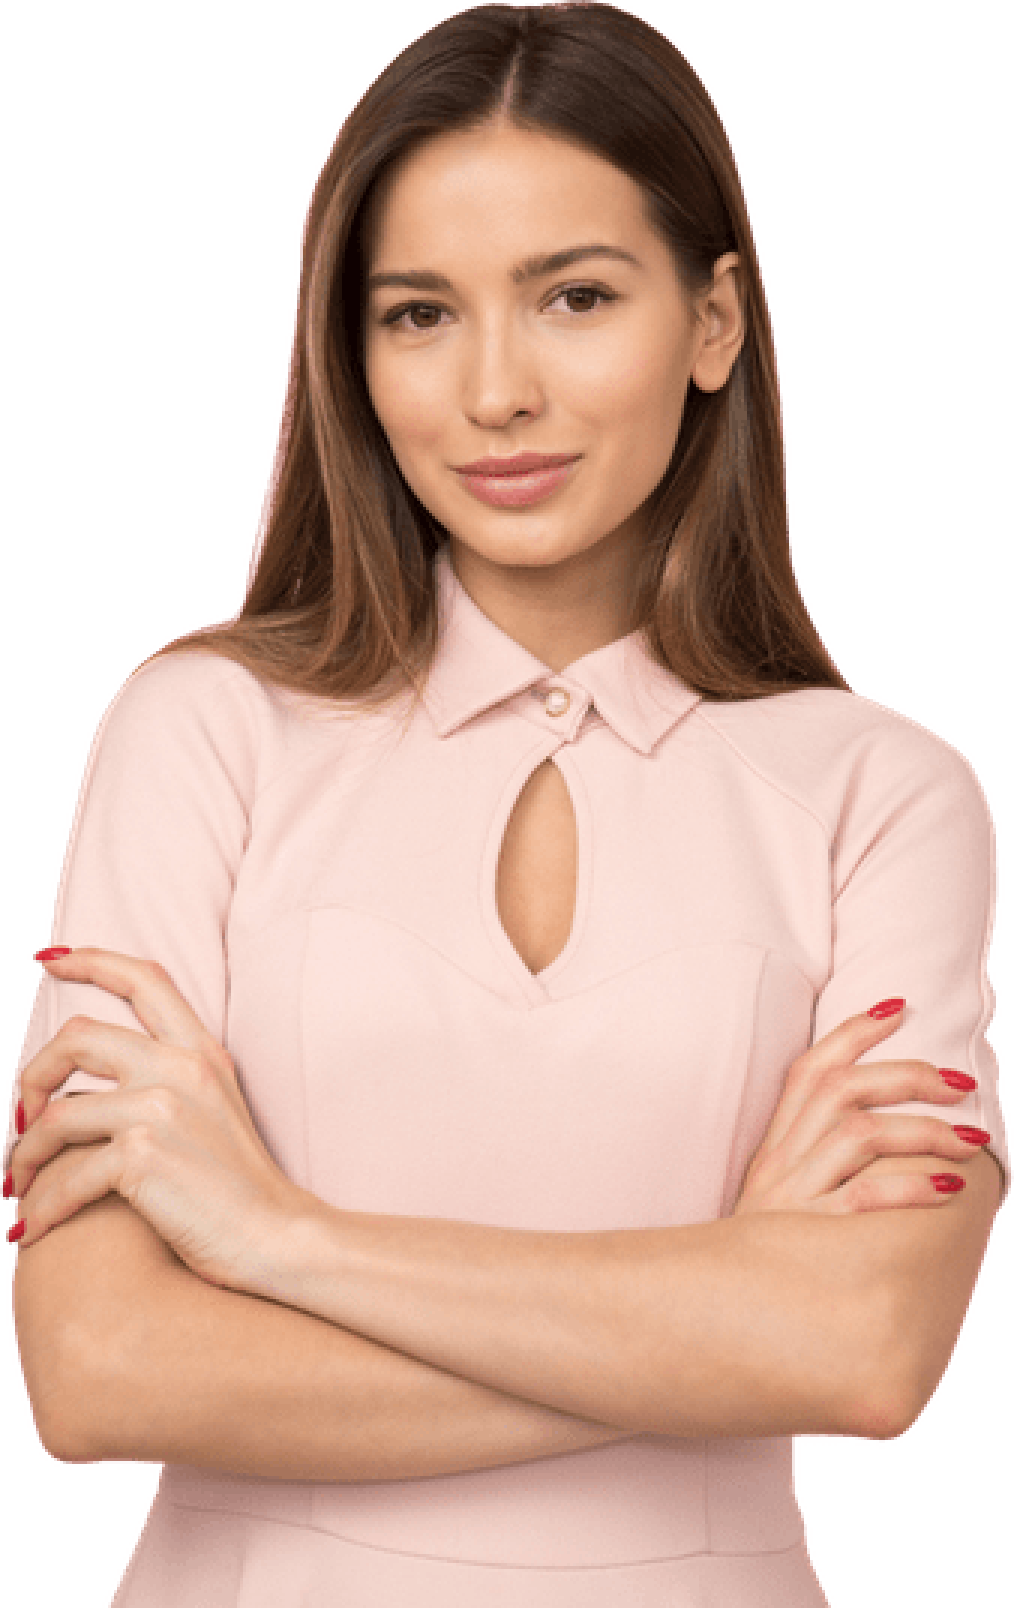
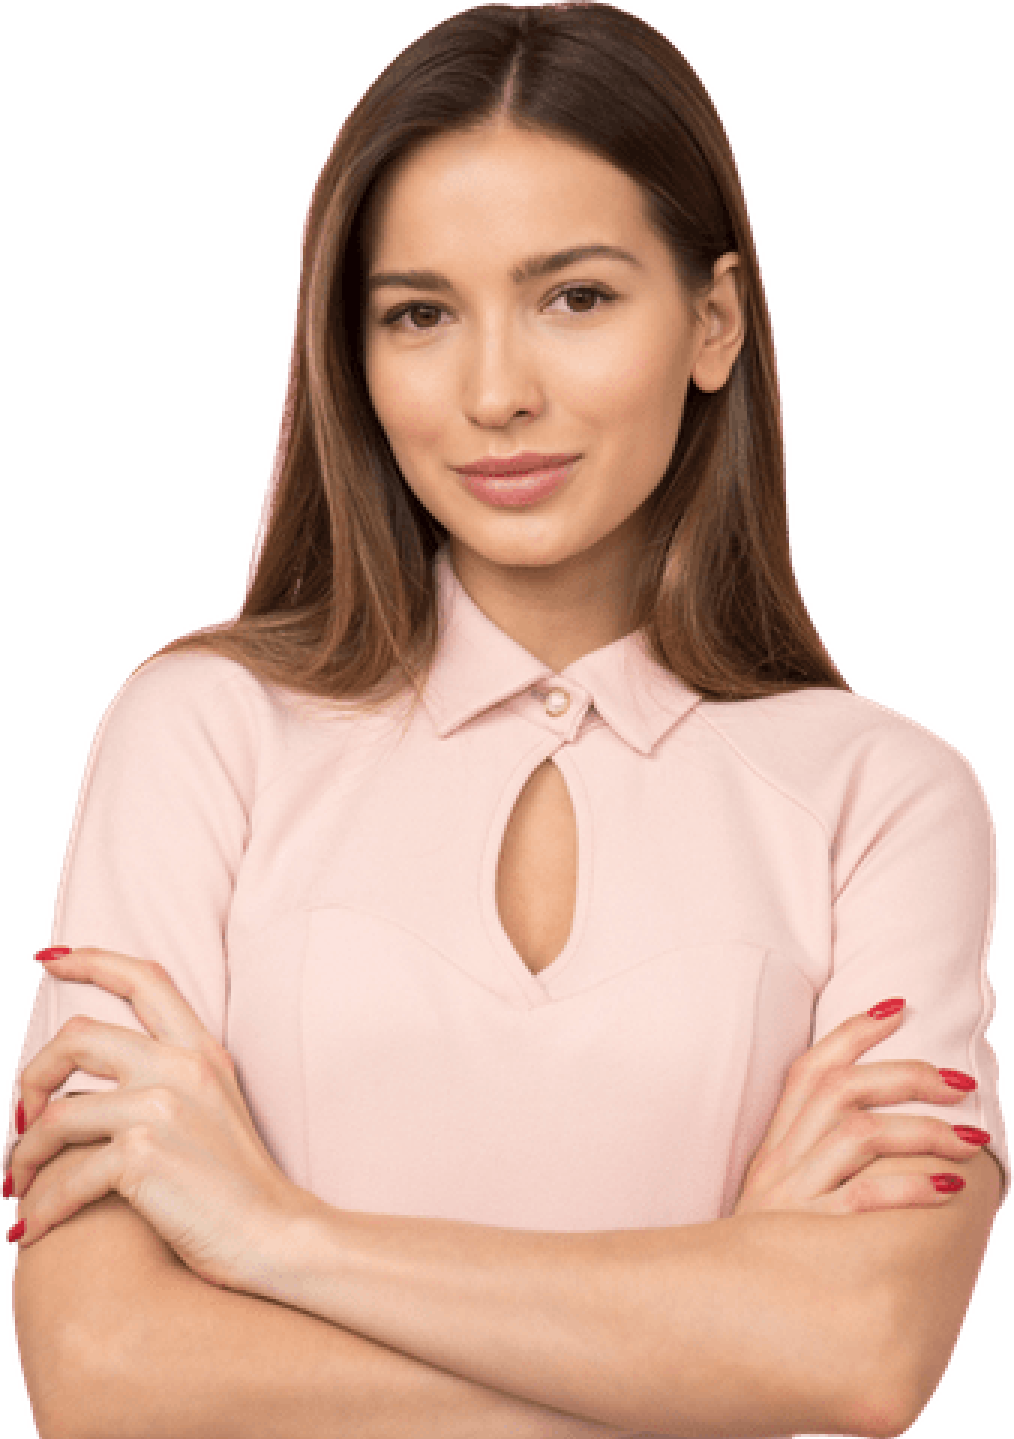
new added

diff --git a/index.html b/index.html
@@ -12,7 +12,7 @@
     <link rel="stylesheet" href="style.css">
 </head>
 <body>
-    <section class="flexible-part">
+    <section class="sec-1 flexible">
         <div class="half-width">
             <img src="start-pic.png" alt="food-pic">
         </div>
@@ -24,7 +24,7 @@
             <a class="button-link" target="_blank" href="https://www.healthyfood.com/">CHECK HERE</a>
         </div>
     </section>
-    <section class="flexible-part-2">
+    <section class="sec-2 flexible">
         <div class="half-width">
             <h1 class="border-1">ABOUT US</h1>
             <strong class="purple-color">Getting Healthy Starts Here!</strong>
@@ -36,8 +36,30 @@
             <a class="button-link-2" target="_blank" href="https://www.healthyfood.com/contact-us/">Contact US</a>
         </div>
         <div class="half-width">
-            <img src="Person2-pic.png" alt="person-pic">
+            <img src="Person-pic.png" alt="person-pic">
         </div>
+    </section>
+    <section class="sec-3">
+        <div class="recipe">
+            <h2 id="font" class="purple-color">Latest Recipes</h2>
+            <h3>Never miss a recipe of the day again. Here are our most recent easy  recipes to try.</h3>
+        </div>
+            
+        <div class="flexible">
+            <div id="item-1" class="box-item">
+                <h2 class="orange-color">Creamy Avocado & Roasted Vegetable Pasta Salad</h2>
+                <p>This gluten-free vegetarian pasta salad is creamy and delicious and provides you with an incredible five vegetable serves per person in one meal.</p>
+            </div>
+            <div id="item-2" class="box-item">
+                <h2 class="orange-color">Tomato & Ricotta Lasagne Stack</h2>
+                <p>This Lasagne Recipe made with fresh garden vegetables and creamy ricotta cheese. It is a perfect salad or vegetarian main dish, make the zucchini stacks a little smaller for a healthy appetizer.</p>
+            </div>
+            <div id="item-3" class="box-item">
+                <h2 class="orange-color">Mixed Tomato & Feta Fatoush Salad with Za’atar</h2>
+                <p>This is the perfect refreshing combination of ingredients for a delicious summer salad. The bright colors are only elevated by the bright flavors of za’atar.</p>
+            </div>
+        </div>
+        
     </section>
 </body>
 </html>

diff --git a/style.css b/style.css
@@ -2,6 +2,9 @@ body{
     font-family: 'Poppins', sans-serif;
     margin: 0;
 }
+.flexible{
+    display: flex;
+}
 .orange-color{
     color: orangered;
 }
@@ -9,21 +12,33 @@ body{
     color: purple;
     font-size: 30px;
 }
-.flexible-part{
-    display: flex;
+.sec-1{
     background-image: url(frame-1.jpg);
     background-repeat: no-repeat;
 }
-.flexible-part-2{
-    display: flex;
+.sec-2{
     background-image: url(frame-3.jpg);
     background-repeat: no-repeat;
     padding-left: 50px;
 }
+.sec-3{
+    background-image: url(frame-4.jpg);
+    background-repeat: no-repeat;
+}
+.recipe{
+    text-align: center;
+}
+#font{
+    font-size: 40px;
+   
+}
+
+
 .half-width{
     width: 50%;
     font-size: 25px;
     padding-bottom: 5px;
+    padding-left: 2%;
 }
 .half-width img{
     width: 80%;
@@ -51,5 +66,15 @@ body{
     border-bottom: 5px solid;
     border-image: linear-gradient(salmon, tomato);
     border-image-slice: 1;
-    
+}
+.box-item{
+    width: 70%;
+    margin-left: 5%;
+    margin-right: 5%;
+    margin-bottom: 80px;
+    margin-top: 30px;
+    border: 5px solid white;
+    border-radius: 20px;
+    border-width: 15px;
+    box-shadow: 1px 5px 7px 4px grey;
 }
